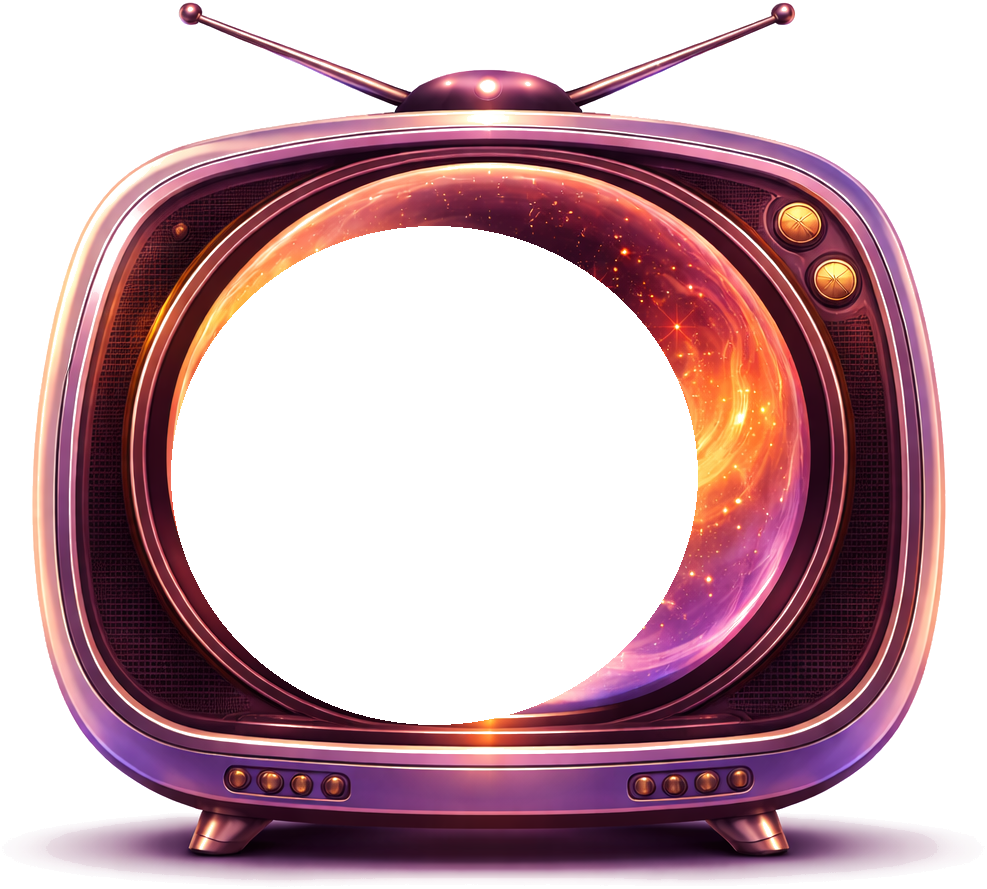
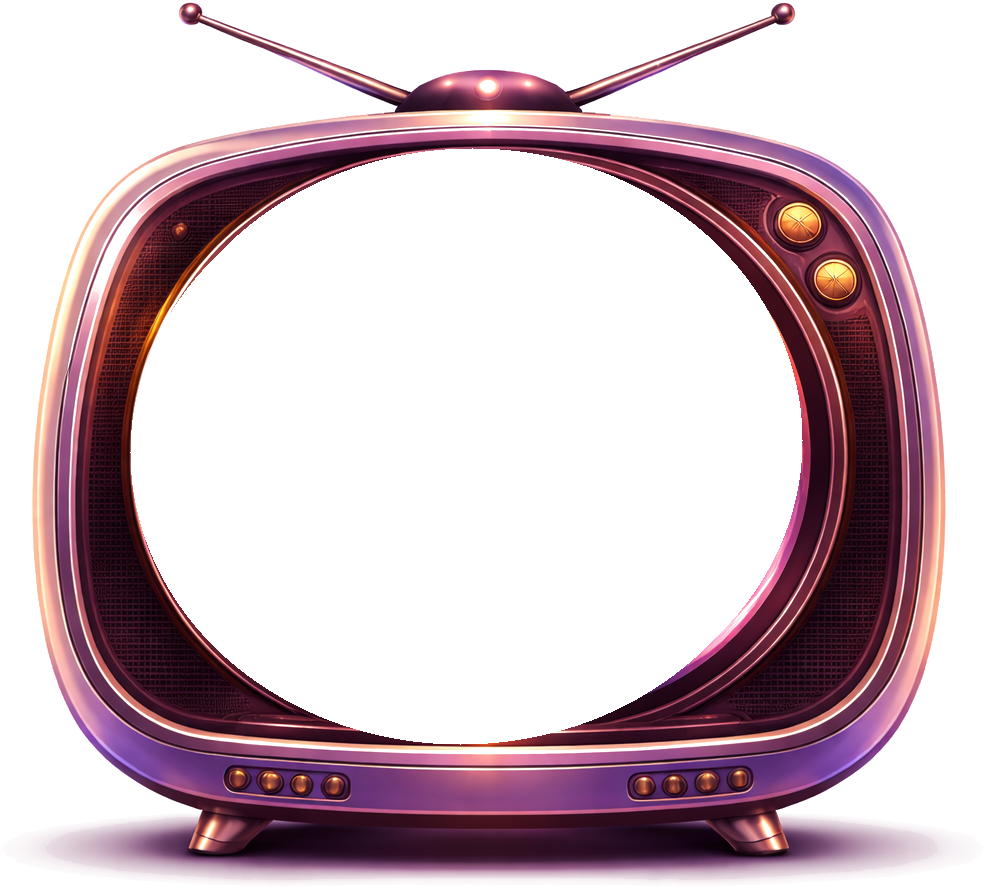
Add starry background to all pages, fix mobile chat overlap, update Mythology Channel TV
- Apply starry night sky background to .app wrapper so all pages share the effect
- Fix mobile chat panel overlapping the toggle button by raising panel above it
- Refine TV screen positioning and add tv-solid.png for off state
- Add Vercel proxy for local dev API forwarding

Changed region(s): [[0.1216, 0.1519, 0.8207, 0.8504]]

diff --git a/src/App.css b/src/App.css
@@ -29,6 +29,35 @@ body {
 
 .app {
   min-height: 100vh;
+  background:
+    radial-gradient(1px 1px at 10% 15%, rgba(255,255,255,0.7) 50%, transparent 50%),
+    radial-gradient(1px 1px at 25% 35%, rgba(255,255,255,0.5) 50%, transparent 50%),
+    radial-gradient(1.5px 1.5px at 40% 8%, rgba(255,255,255,0.8) 50%, transparent 50%),
+    radial-gradient(1px 1px at 55% 22%, rgba(255,255,255,0.4) 50%, transparent 50%),
+    radial-gradient(1px 1px at 70% 45%, rgba(255,255,255,0.6) 50%, transparent 50%),
+    radial-gradient(1.5px 1.5px at 85% 12%, rgba(255,255,255,0.7) 50%, transparent 50%),
+    radial-gradient(1px 1px at 15% 55%, rgba(255,255,255,0.5) 50%, transparent 50%),
+    radial-gradient(1px 1px at 35% 70%, rgba(255,255,255,0.4) 50%, transparent 50%),
+    radial-gradient(1.5px 1.5px at 50% 50%, rgba(255,255,255,0.6) 50%, transparent 50%),
+    radial-gradient(1px 1px at 65% 65%, rgba(255,255,255,0.5) 50%, transparent 50%),
+    radial-gradient(1px 1px at 80% 38%, rgba(255,255,255,0.3) 50%, transparent 50%),
+    radial-gradient(1px 1px at 92% 55%, rgba(255,255,255,0.6) 50%, transparent 50%),
+    radial-gradient(1px 1px at 5% 80%, rgba(255,255,255,0.5) 50%, transparent 50%),
+    radial-gradient(1.5px 1.5px at 20% 90%, rgba(255,255,255,0.7) 50%, transparent 50%),
+    radial-gradient(1px 1px at 45% 85%, rgba(255,255,255,0.4) 50%, transparent 50%),
+    radial-gradient(1px 1px at 60% 92%, rgba(255,255,255,0.6) 50%, transparent 50%),
+    radial-gradient(1px 1px at 75% 78%, rgba(255,255,255,0.5) 50%, transparent 50%),
+    radial-gradient(1px 1px at 90% 88%, rgba(255,255,255,0.4) 50%, transparent 50%),
+    radial-gradient(1.5px 1.5px at 8% 42%, rgba(201,169,97,0.4) 50%, transparent 50%),
+    radial-gradient(1px 1px at 30% 18%, rgba(201,169,97,0.3) 50%, transparent 50%),
+    radial-gradient(1px 1px at 62% 5%, rgba(139,157,195,0.5) 50%, transparent 50%),
+    radial-gradient(1.5px 1.5px at 78% 60%, rgba(139,157,195,0.4) 50%, transparent 50%),
+    radial-gradient(1px 1px at 48% 38%, rgba(255,255,255,0.3) 50%, transparent 50%),
+    radial-gradient(1px 1px at 18% 68%, rgba(255,255,255,0.5) 50%, transparent 50%),
+    radial-gradient(ellipse at 50% 0%, rgba(30,30,60,0.4) 0%, transparent 70%),
+    radial-gradient(ellipse at 20% 50%, rgba(15,15,40,0.3) 0%, transparent 60%),
+    linear-gradient(to bottom, #06060f 0%, #0a0a18 40%, #0d0d1a 70%, #08080f 100%);
+  background-attachment: fixed;
 }
 
 /* ===== MYTHOSOPHIA PAGE ===== */
@@ -1556,10 +1585,10 @@ body {
   .chat-panel {
     right: 0;
     left: 0;
-    bottom: 0;
+    bottom: 80px;
     width: 100%;
-    max-height: 70vh;
-    border-radius: 12px 12px 0 0;
+    max-height: 60vh;
+    border-radius: 12px;
   }
 
   .chat-toggle {

diff --git a/src/pages/MythologyChannel/MythologyChannelPage.css b/src/pages/MythologyChannel/MythologyChannelPage.css
@@ -13,7 +13,6 @@
   width: 700px;
   max-width: 95vw;
   margin-bottom: 20px;
-  transition: filter 0.6s ease;
 }
 
 .tv-wrapper.tv-on {
@@ -29,48 +28,29 @@
   z-index: 2;
 }
 
-/* Solid backdrop behind the entire TV image — completely hides the transparent cutout when off */
-.tv-screen-fill {
-  position: absolute;
-  top: 0;
-  left: 0;
-  width: 100%;
-  height: 100%;
-  z-index: 1;
-  background: radial-gradient(ellipse 40% 35% at 49% 46%,
-    #1a0a20 0%,
-    #2a1035 40%,
-    #3d1848 70%,
-    #4a2058 100%
-  );
-}
-
 /* The screen area sits behind the TV frame image, matched to the horizontal ellipse cutout */
 .tv-screen-area {
   position: absolute;
-  top: 10%;
-  left: 10%;
-  width: 78%;
+  top: 14%;
+  left: 12%;
+  width: 70%;
   height: 72%;
   border-radius: 50%;
   overflow: hidden;
   z-index: 1;
   cursor: pointer;
-  display: flex;
-  align-items: center;
-  justify-content: center;
   background: #000;
 }
 
-/* Video player fills the screen circle */
+/* Video player fills the screen oval */
 .tv-video-player {
-  width: 170%;
-  height: 170%;
-  border: none;
   position: absolute;
   top: 50%;
   left: 50%;
   transform: translate(-50%, -50%);
+  width: 110%;
+  height: 110%;
+  border: none;
 }
 
 

diff --git a/src/pages/MythologyChannel/MythologyChannelPage.js b/src/pages/MythologyChannel/MythologyChannelPage.js
@@ -122,11 +122,10 @@ export default function MythologyChannelPage() {
     <div className="mythology-channel-page">
       <div className={`tv-wrapper${isOn ? ' tv-on' : ''}`}>
         <img
-          src={process.env.PUBLIC_URL + '/tv-frame.png'}
+          src={process.env.PUBLIC_URL + (isOn ? '/tv-frame.png' : '/tv-solid.png')}
           alt="Mythology Channel TV"
           className="tv-frame-img"
         />
-        {!isOn && <div className="tv-screen-fill" />}
         {isOn && (
           <div className="tv-screen-area" onClick={handleTvClick}>
             <iframe
